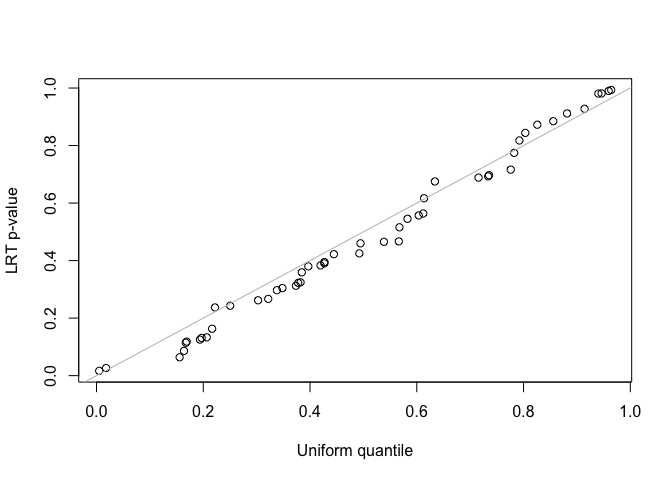
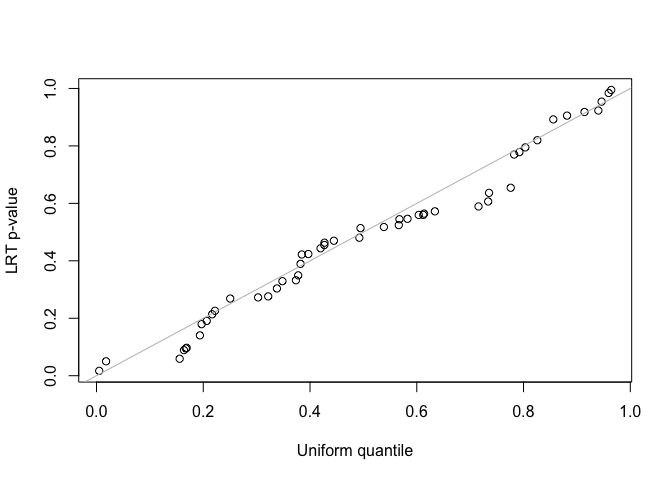
Initial commit

diff --git a/README.md b/README.md
@@ -174,7 +174,7 @@ head(test)
 #> Gene6  0.06756558  1.1553425 0.2482287
 ```
 
-## And more
+## And More
 
 ### Using ML method
 
@@ -198,7 +198,7 @@ with two-component random effects.
 ## generated.
 set.seed(2508)
 n <- nrow(metadata)
-metadata$time <- runif(n) + runif(n, 2, 3) * sample(0:1, n, replace = TRUE)
+metadata$time <- runif(n) + runif(n, 1, 2) * sample(0:1, n, replace = TRUE)
 Za <- model.matrix(~0 + sam + sam:time, data = metadata)
 da <- c(ncol(Za)/2, ncol(Za)/2)  #dimension
 
@@ -266,18 +266,18 @@ sessionInfo()
 #> [1] FLASHMM_1.2.1
 #> 
 #> loaded via a namespace (and not attached):
-#>  [1] Matrix_1.7-3       miniUI_0.1.1.1     compiler_4.4.3     promises_1.3.2    
-#>  [5] Rcpp_1.0.14        callr_3.7.6        later_1.4.1        yaml_2.3.10       
-#>  [9] fastmap_1.2.0      lattice_0.22-6     mime_0.13          R6_2.6.1          
-#> [13] curl_6.2.1         knitr_1.50         MASS_7.3-65        htmlwidgets_1.6.4 
-#> [17] desc_1.4.3         profvis_0.4.0      shiny_1.10.0       rlang_1.1.6       
-#> [21] cachem_1.1.0       httpuv_1.6.15      xfun_0.51          fs_1.6.5          
+#>  [1] Matrix_1.7-3       miniUI_0.1.2       compiler_4.4.3     promises_1.3.3    
+#>  [5] Rcpp_1.1.0         callr_3.7.6        later_1.4.2        yaml_2.3.10       
+#>  [9] fastmap_1.2.0      lattice_0.22-7     mime_0.13          R6_2.6.1          
+#> [13] curl_6.4.0         knitr_1.50         MASS_7.3-65        htmlwidgets_1.6.4 
+#> [17] desc_1.4.3         profvis_0.4.0      shiny_1.11.1       rlang_1.1.6       
+#> [21] cachem_1.1.0       httpuv_1.6.16      xfun_0.52          fs_1.6.6          
 #> [25] pkgload_1.4.0      memoise_2.0.1      cli_3.6.5          formatR_1.14      
-#> [29] magrittr_2.0.3     ps_1.9.0           grid_4.4.3         processx_3.8.6    
+#> [29] magrittr_2.0.3     ps_1.9.1           grid_4.4.3         processx_3.8.6    
 #> [33] digest_0.6.37      rstudioapi_0.17.1  xtable_1.8-4       remotes_2.5.0     
-#> [37] devtools_2.4.5     lifecycle_1.0.4    vctrs_0.6.5        evaluate_1.0.3    
-#> [41] glue_1.8.0         urlchecker_1.0.1   sessioninfo_1.2.3  pkgbuild_1.4.6    
-#> [45] rmarkdown_2.29     purrr_1.0.4        tools_4.4.3        usethis_3.1.0.9000
+#> [37] devtools_2.4.5     lifecycle_1.0.4    vctrs_0.6.5        evaluate_1.0.4    
+#> [41] glue_1.8.0         urlchecker_1.0.1   sessioninfo_1.2.3  pkgbuild_1.4.8    
+#> [45] rmarkdown_2.29     purrr_1.1.0        tools_4.4.3        usethis_3.1.0.9000
 #> [49] ellipsis_0.3.2     htmltools_0.5.8.1
 ```
 
